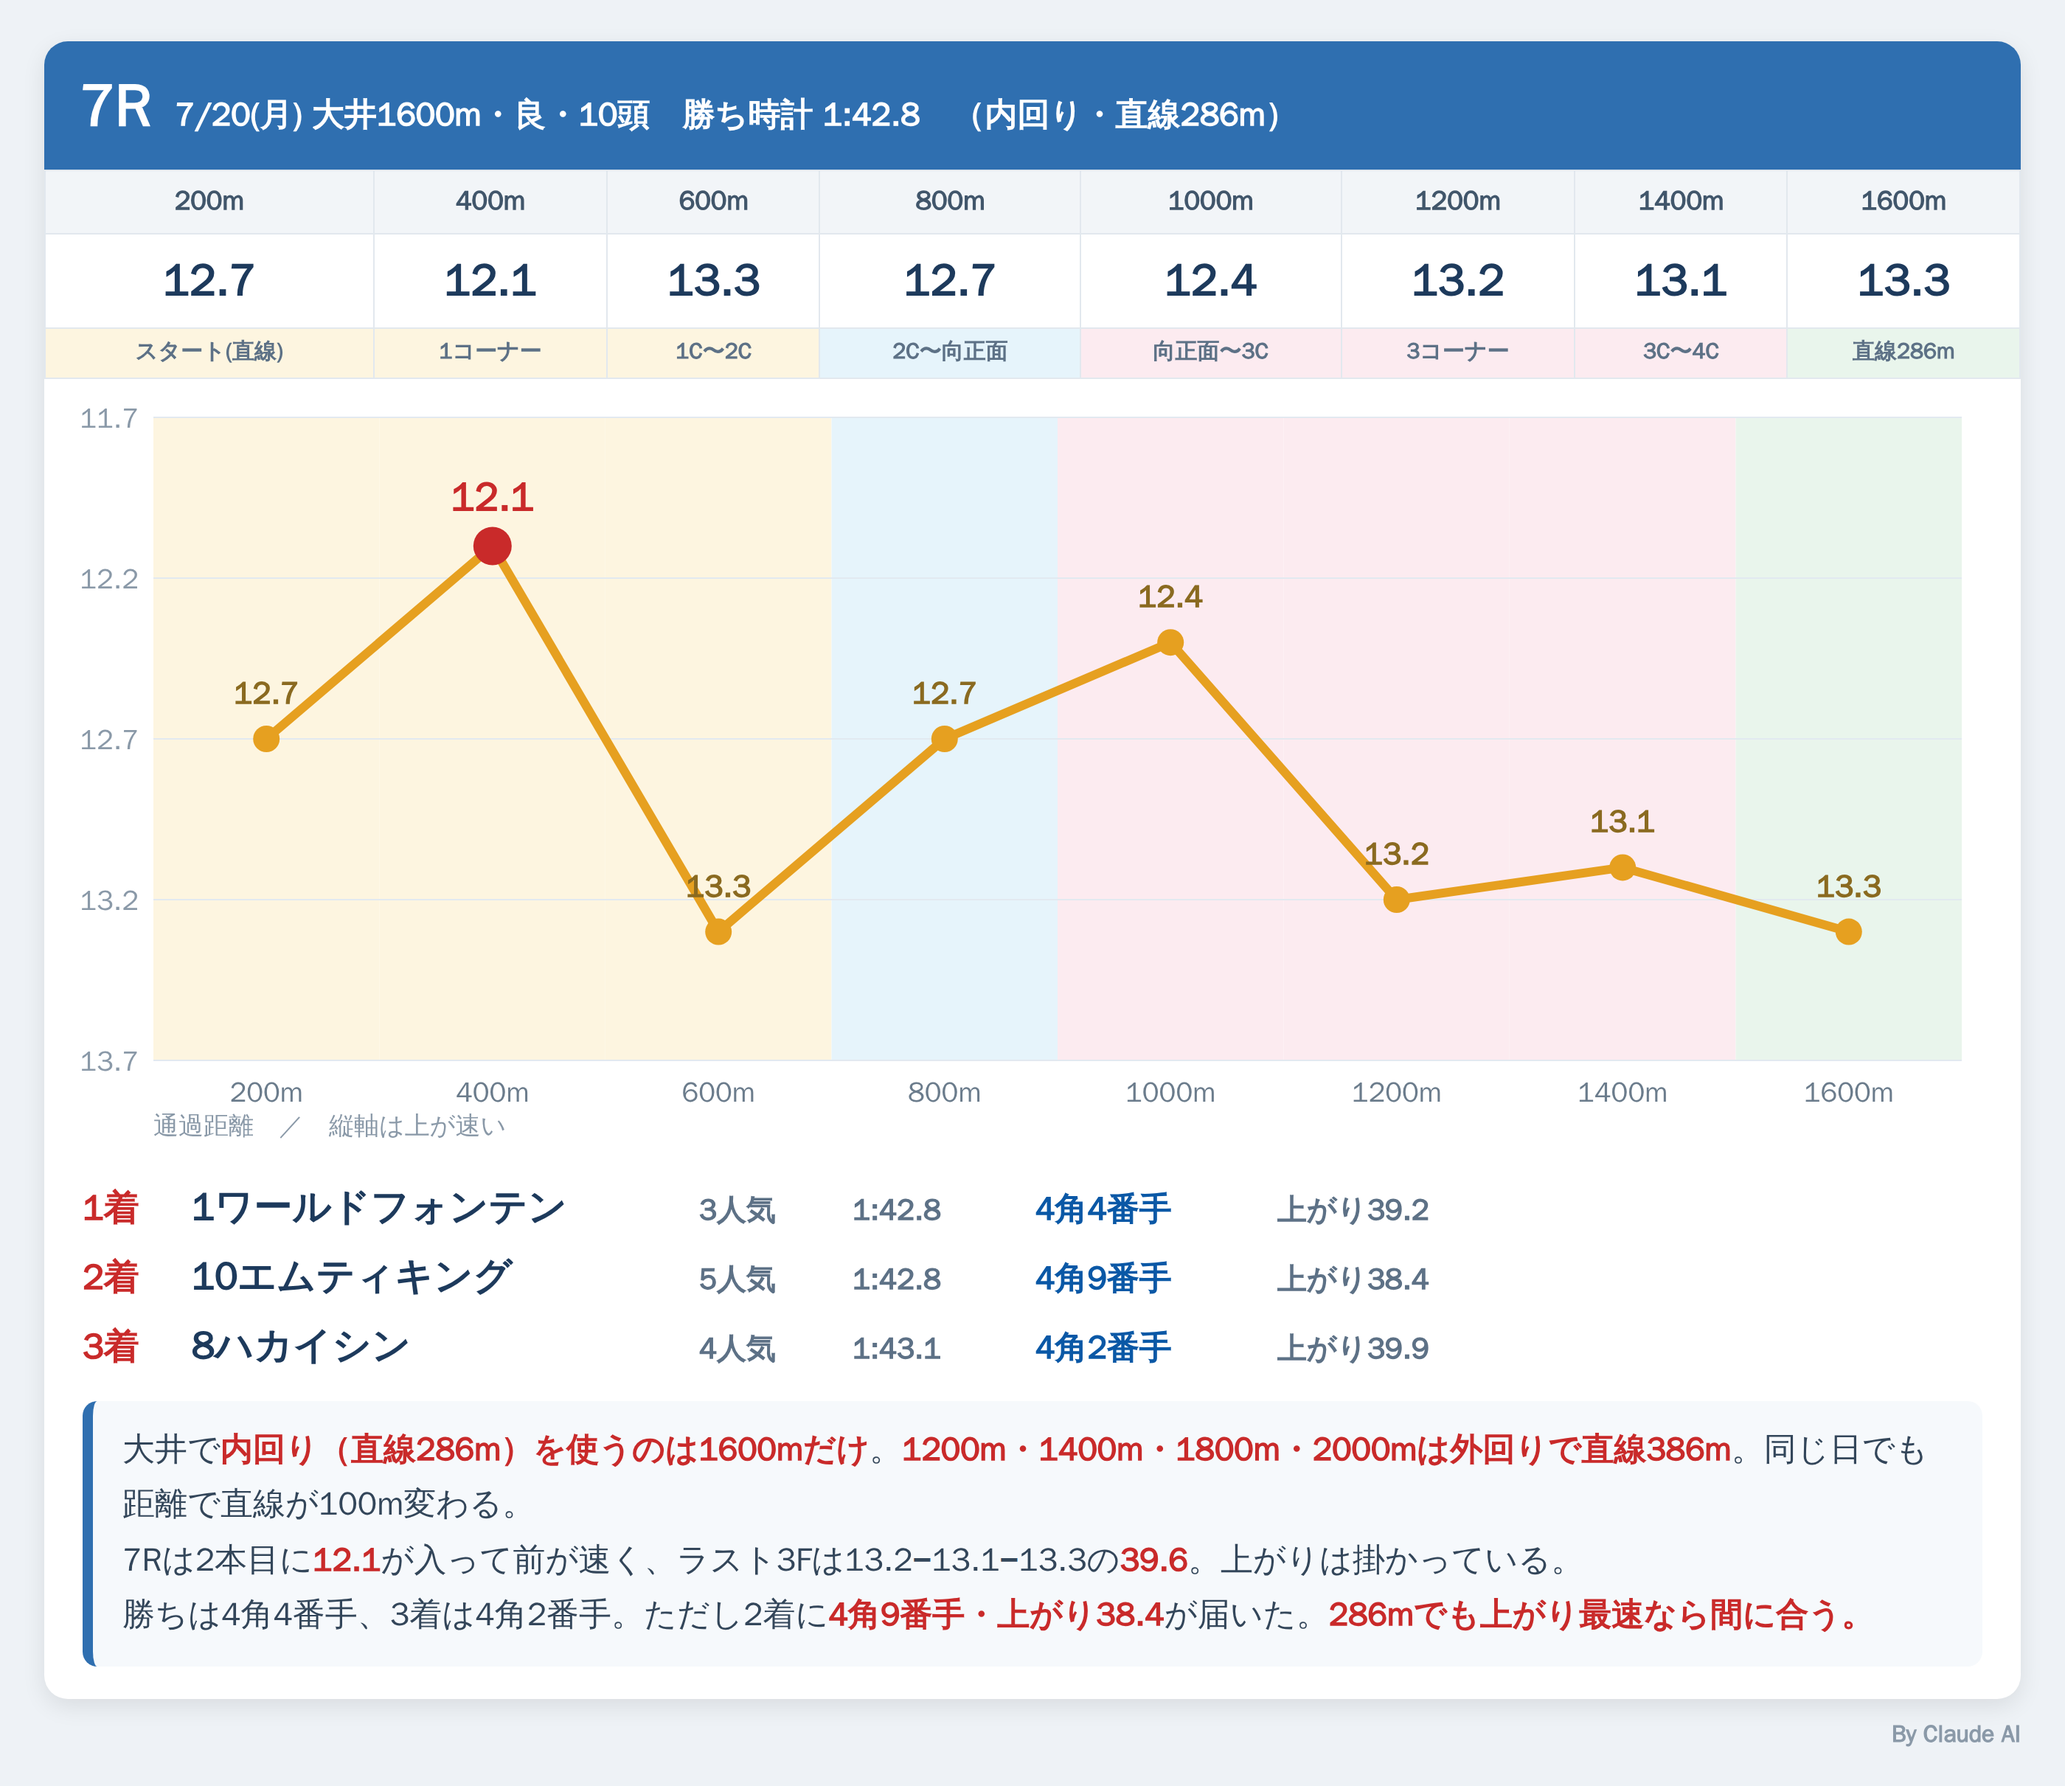
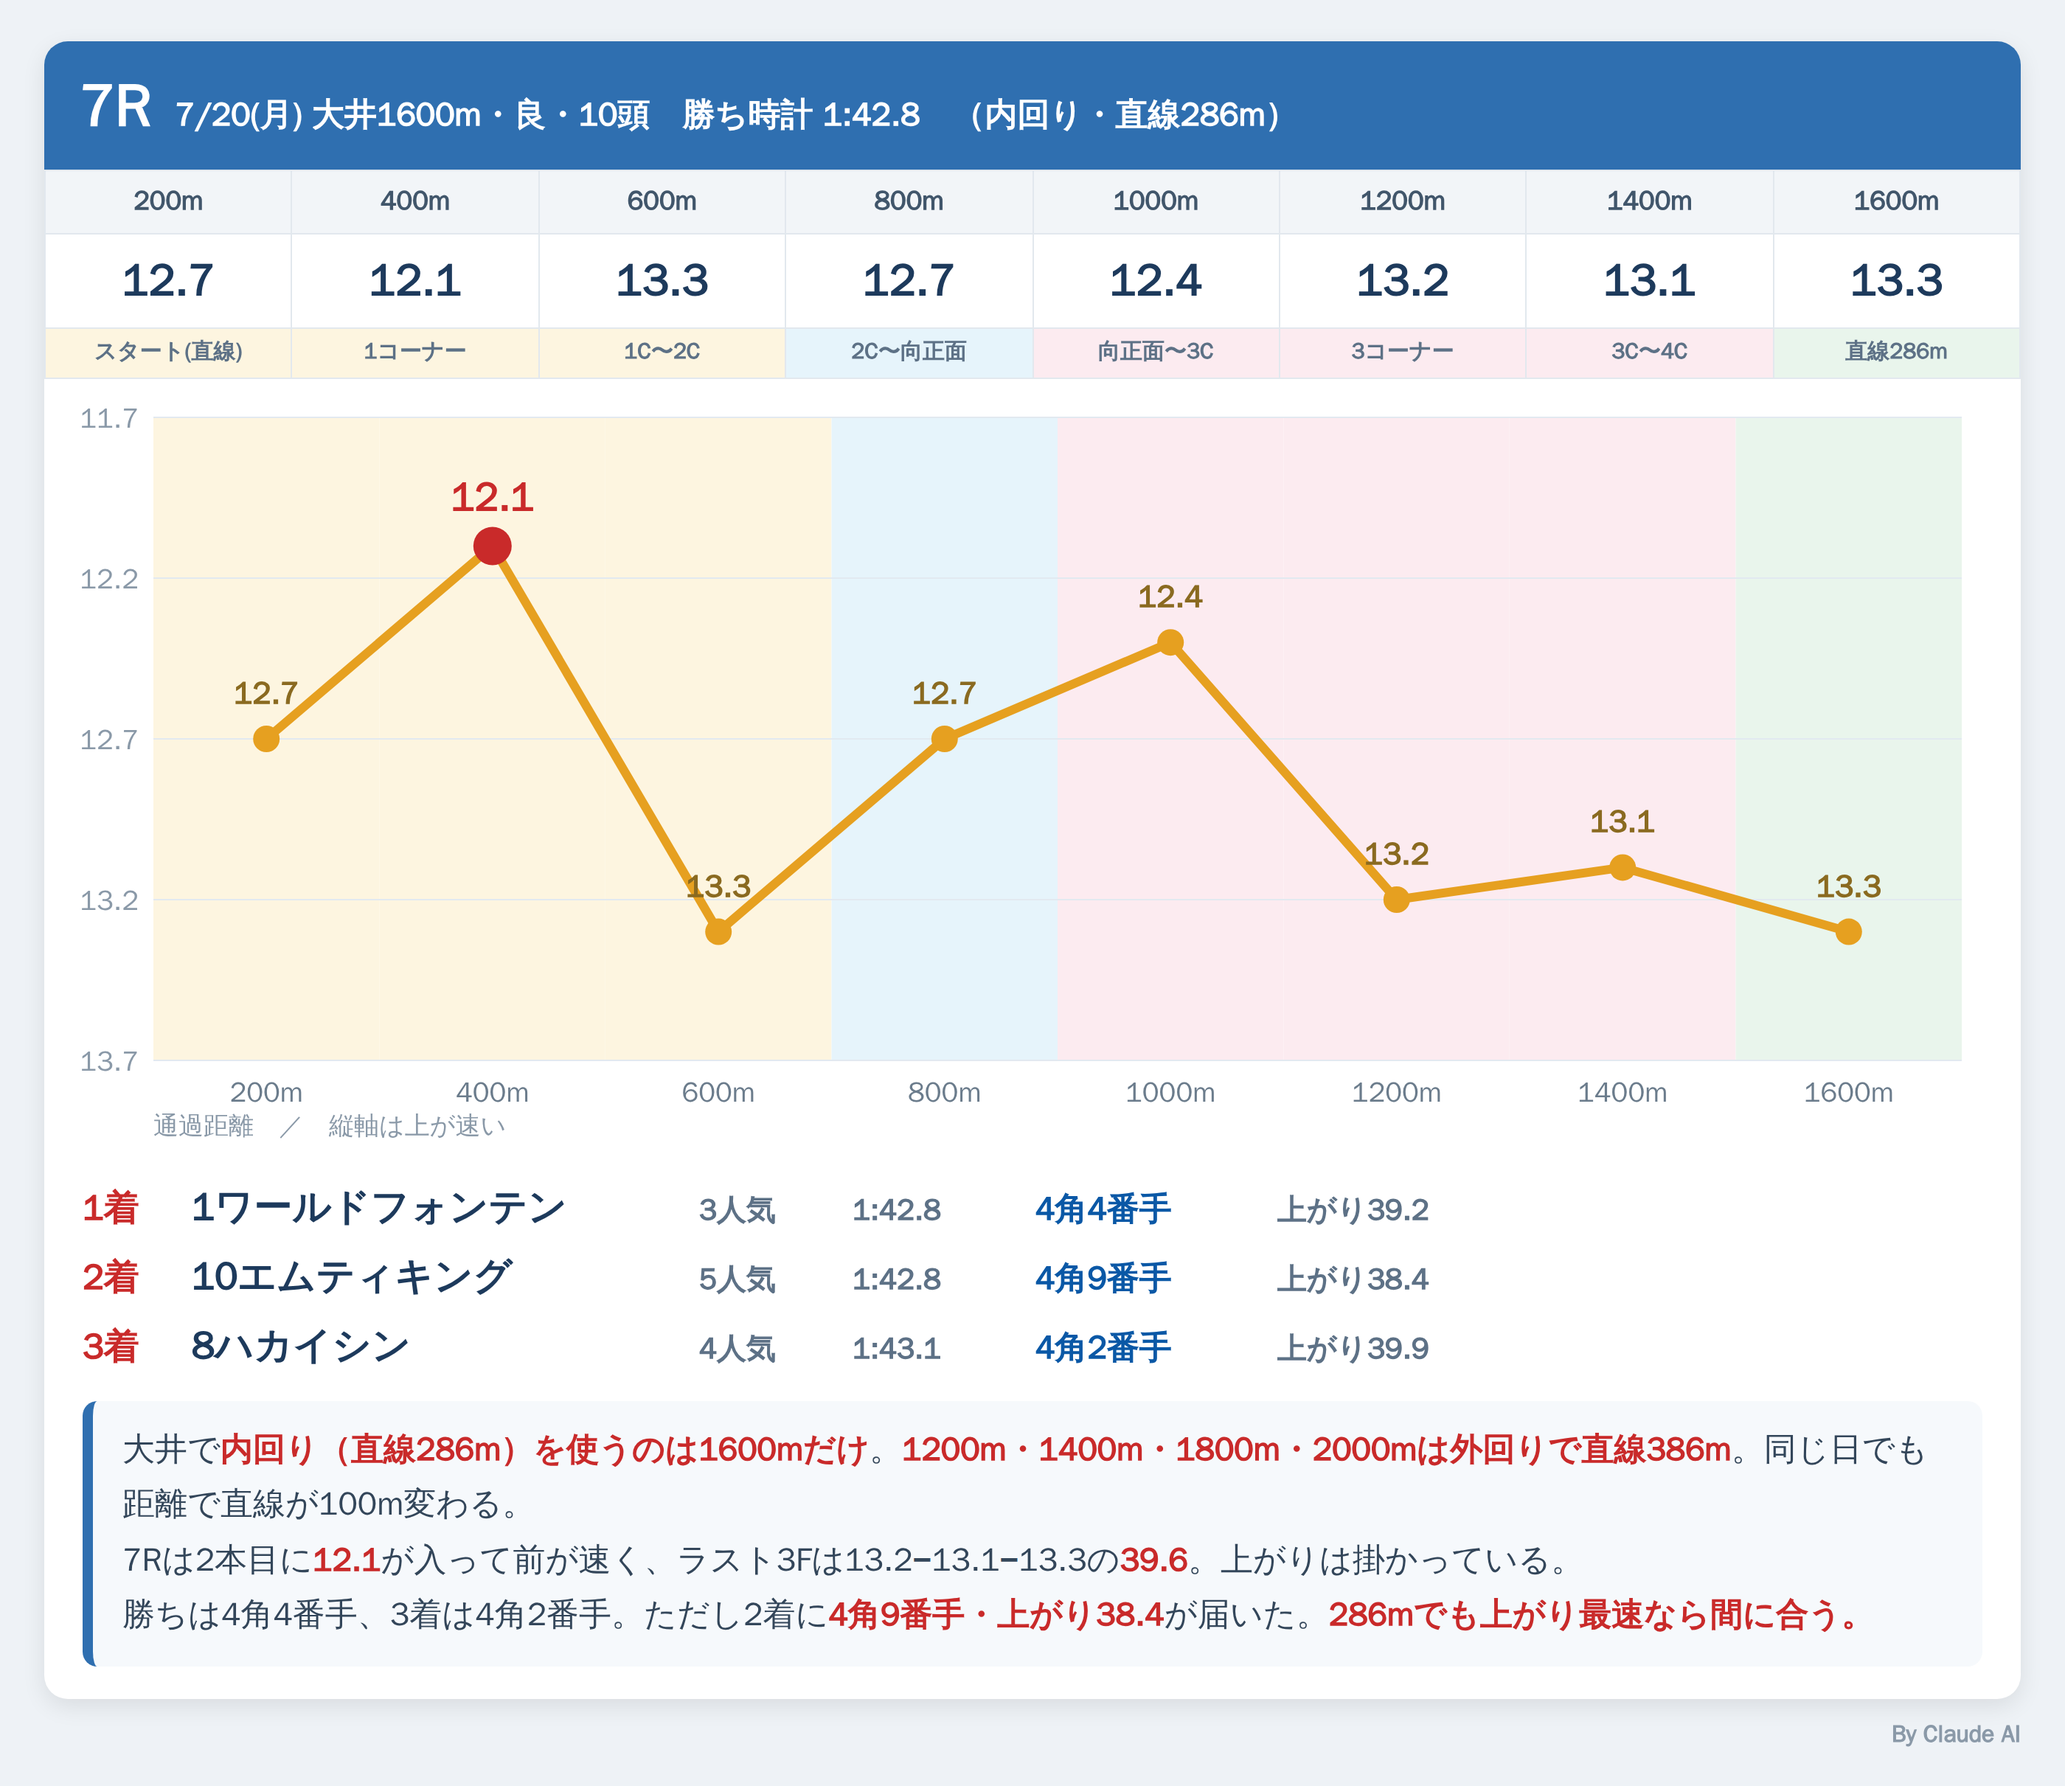
大井7/20 8Rのラップ復習パネルを追加
1400m外回り(2コーナー発走)。前半800m 49.2からラスト1F 14.3まで落ちる
展開でも4角2番手・4番手・1番手の決着。表の列幅を等分に固定した。

Claude-Session: https://claude.ai/code/session_01RoHscZkr96FNaxQWvUqgEw

diff --git a/notes/live/2026-08-12/oi_0720_8R.html b/notes/live/2026-08-12/oi_0720_8R.html
@@ -1,0 +1,36 @@
+<!doctype html><html><head><meta charset="utf-8"><style>
+  * { margin:0; padding:0; box-sizing:border-box; font-family:'WenQuanYi Zen Hei',sans-serif; }
+  body { background:#eef2f6; }
+  .card { width:1400px; background:#eef2f6; padding:28px 30px 24px; }
+  .box { background:#fff; border-radius:16px; overflow:hidden; box-shadow:0 5px 16px rgba(0,0,0,.09); }
+  .bh { background:#2f6fb0; color:#fff; padding:16px 24px; display:flex; align-items:baseline; gap:16px; }
+  .bh b { font-size:40px; font-weight:900; }
+  .bh span { font-size:22px; font-weight:800; }
+  table { width:100%; border-collapse:collapse; table-layout:fixed; }
+  th { background:#f2f5f8; color:#41566b; font-size:18px; font-weight:800; padding:9px 2px; border:1px solid #e2e8ee; }
+  td { text-align:center; font-size:30px; font-weight:900; color:#1d3a5c; padding:11px 2px; border:1px solid #e2e8ee; }
+  td.sg { font-size:15px; font-weight:800; color:#5d7186; padding:7px 2px; }
+  .tops { padding:12px 26px 4px; }
+  .tp { display:flex; align-items:baseline; gap:14px; padding:6px 0; }
+  .tp .f { color:#c92a2a; font-size:24px; font-weight:900; flex:0 0 60px; }
+  .tp .hn { color:#1d3a5c; font-size:26px; font-weight:900; flex:0 0 330px; }
+  .tp .pp { color:#5d7186; font-size:20px; font-weight:800; flex:0 0 90px; }
+  .tp .tm { color:#5d7186; font-size:20px; font-weight:800; flex:0 0 110px; }
+  .tp .cn { color:#0a58a6; font-size:22px; font-weight:900; flex:0 0 150px; }
+  .tp .ag { color:#5d7186; font-size:20px; font-weight:800; }
+  .read { margin:10px 26px 22px; background:#f6f9fc; border-left:7px solid #2f6fb0; border-radius:10px;
+          padding:15px 20px; color:#33465a; font-size:22px; font-weight:700; line-height:1.7; }
+  .read b { color:#c92a2a; }
+  .sig { text-align:right; color:#8a99a8; font-size:16px; font-weight:800; margin-top:14px; }
+</style></head><body>
+<div class="card">
+  <div class="box">
+    <div class="bh"><b>8R</b><span>7/20(月) 大井1400m・良・13頭　勝ち時計 1:28.7　（外回り・直線386m）</span></div>
+    <table><tr><th>200m</th><th>400m</th><th>600m</th><th>800m</th><th>1000m</th><th>1200m</th><th>1400m</th></tr><tr><td>13.4</td><td>11.7</td><td>11.9</td><td>12.2</td><td>12.5</td><td>12.7</td><td>14.3</td></tr><tr><td class="sg" style="background:#fdf5e0">スタート(2コーナー)</td><td class="sg" style="background:#e6f4fb">2C〜向正面</td><td class="sg" style="background:#e6f4fb">向正面</td><td class="sg" style="background:#fcebf0">向正面〜3C</td><td class="sg" style="background:#fcebf0">3C〜4C</td><td class="sg" style="background:#fcebf0">4C〜直線</td><td class="sg" style="background:#e9f5ec">直線386m</td></tr></table>
+    <svg viewBox="0 0 1320 520" width="1320" height="520"><rect x="74.0" y="26" width="175.1" height="436" fill="#fdf5e0"/><rect x="249.1" y="26" width="175.1" height="436" fill="#e6f4fb"/><rect x="424.3" y="26" width="175.1" height="436" fill="#e6f4fb"/><rect x="599.4" y="26" width="175.1" height="436" fill="#fcebf0"/><rect x="774.6" y="26" width="175.1" height="436" fill="#fcebf0"/><rect x="949.7" y="26" width="175.1" height="436" fill="#fcebf0"/><rect x="1124.9" y="26" width="175.1" height="436" fill="#e9f5ec"/><line x1="74" y1="26.0" x2="1300" y2="26.0" stroke="#e2e9f0"/><text x="64" y="33.0" text-anchor="end" font-size="19" fill="#8a99a8">11.3</text><line x1="74" y1="135.0" x2="1300" y2="135.0" stroke="#e2e9f0"/><text x="64" y="142.0" text-anchor="end" font-size="19" fill="#8a99a8">12.1</text><line x1="74" y1="244.0" x2="1300" y2="244.0" stroke="#e2e9f0"/><text x="64" y="251.0" text-anchor="end" font-size="19" fill="#8a99a8">13.0</text><line x1="74" y1="353.0" x2="1300" y2="353.0" stroke="#e2e9f0"/><text x="64" y="360.0" text-anchor="end" font-size="19" fill="#8a99a8">13.9</text><line x1="74" y1="462.0" x2="1300" y2="462.0" stroke="#e2e9f0"/><text x="64" y="469.0" text-anchor="end" font-size="19" fill="#8a99a8">14.7</text><polyline points="161.6,295.3 336.7,77.3 511.9,102.9 687.0,141.4 862.1,179.9 1037.3,205.5 1212.4,410.7" fill="none" stroke="#e6a020" stroke-width="6" stroke-linejoin="round"/><circle cx="161.6" cy="295.3" r="9" fill="#e6a020"/><text x="161.6" y="271.3" text-anchor="middle" font-size="21" font-weight="900" fill="#8a6a20">13.4</text><text x="161.6" y="490" text-anchor="middle" font-size="19" fill="#6b7c8c">200m</text><circle cx="336.7" cy="77.3" r="13" fill="#c92a2a"/><text x="336.7" y="53.3" text-anchor="middle" font-size="27" font-weight="900" fill="#c92a2a">11.7</text><text x="336.7" y="490" text-anchor="middle" font-size="19" fill="#6b7c8c">400m</text><circle cx="511.9" cy="102.9" r="9" fill="#e6a020"/><text x="511.9" y="78.9" text-anchor="middle" font-size="21" font-weight="900" fill="#8a6a20">11.9</text><text x="511.9" y="490" text-anchor="middle" font-size="19" fill="#6b7c8c">600m</text><circle cx="687.0" cy="141.4" r="9" fill="#e6a020"/><text x="687.0" y="117.4" text-anchor="middle" font-size="21" font-weight="900" fill="#8a6a20">12.2</text><text x="687.0" y="490" text-anchor="middle" font-size="19" fill="#6b7c8c">800m</text><circle cx="862.1" cy="179.9" r="9" fill="#e6a020"/><text x="862.1" y="155.9" text-anchor="middle" font-size="21" font-weight="900" fill="#8a6a20">12.5</text><text x="862.1" y="490" text-anchor="middle" font-size="19" fill="#6b7c8c">1000m</text><circle cx="1037.3" cy="205.5" r="9" fill="#e6a020"/><text x="1037.3" y="181.5" text-anchor="middle" font-size="21" font-weight="900" fill="#8a6a20">12.7</text><text x="1037.3" y="490" text-anchor="middle" font-size="19" fill="#6b7c8c">1200m</text><circle cx="1212.4" cy="410.7" r="9" fill="#e6a020"/><text x="1212.4" y="386.7" text-anchor="middle" font-size="21" font-weight="900" fill="#8a6a20">14.3</text><text x="1212.4" y="490" text-anchor="middle" font-size="19" fill="#6b7c8c">1400m</text><text x="74" y="512" font-size="17" fill="#8a99a8">通過距離　／　縦軸は上が速い</text></svg>
+    <div class="tops"><div class="tp"><span class="f">1着</span><span class="hn">8チマル</span><span class="pp">3人気</span><span class="tm">1:28.7</span><span class="cn">4角2番手</span><span class="ag">上がり39.5</span></div><div class="tp"><span class="f">2着</span><span class="hn">3ポルトディタリー</span><span class="pp">4人気</span><span class="tm">1:28.7</span><span class="cn">4角4番手</span><span class="ag">上がり39.1</span></div><div class="tp"><span class="f">3着</span><span class="hn">2ダノンクルーザー</span><span class="pp">1人気</span><span class="tm">1:28.7</span><span class="cn">4角1番手</span><span class="ag">上がり39.5</span></div></div>
+    <div class="read">大井1400mは<b>外回り・直線386m</b>で<b>2コーナー発走</b>。この日の1400m全4鞍で2本目が<b>11.5〜11.8</b>と速くなる。<b>コーナーから下って加速がつく構造。</b><br>8Rは前半800mが<b>49.2</b>で流れ、ラスト1Fが<b>14.3</b>まで落ちた。全体が止まる展開。<br>それでも決着は<b>4角2番手・4番手・1番手</b>で1〜3着が同タイム1:28.7。<b>386mでも、みんな止まる流れなら後ろは届かない。</b></div>
+  </div>
+  <div class="sig">By Claude AI</div>
+</div>
+</body></html>

diff --git a/notes/live/2026-08-12/oi_0720_7R.html b/notes/live/2026-08-12/oi_0720_7R.html
@@ -6,7 +6,7 @@
   .bh { background:#2f6fb0; color:#fff; padding:16px 24px; display:flex; align-items:baseline; gap:16px; }
   .bh b { font-size:40px; font-weight:900; }
   .bh span { font-size:22px; font-weight:800; }
-  table { width:100%; border-collapse:collapse; }
+  table { width:100%; border-collapse:collapse; table-layout:fixed; }
   th { background:#f2f5f8; color:#41566b; font-size:18px; font-weight:800; padding:9px 2px; border:1px solid #e2e8ee; }
   td { text-align:center; font-size:30px; font-weight:900; color:#1d3a5c; padding:11px 2px; border:1px solid #e2e8ee; }
   td.sg { font-size:15px; font-weight:800; color:#5d7186; padding:7px 2px; }
